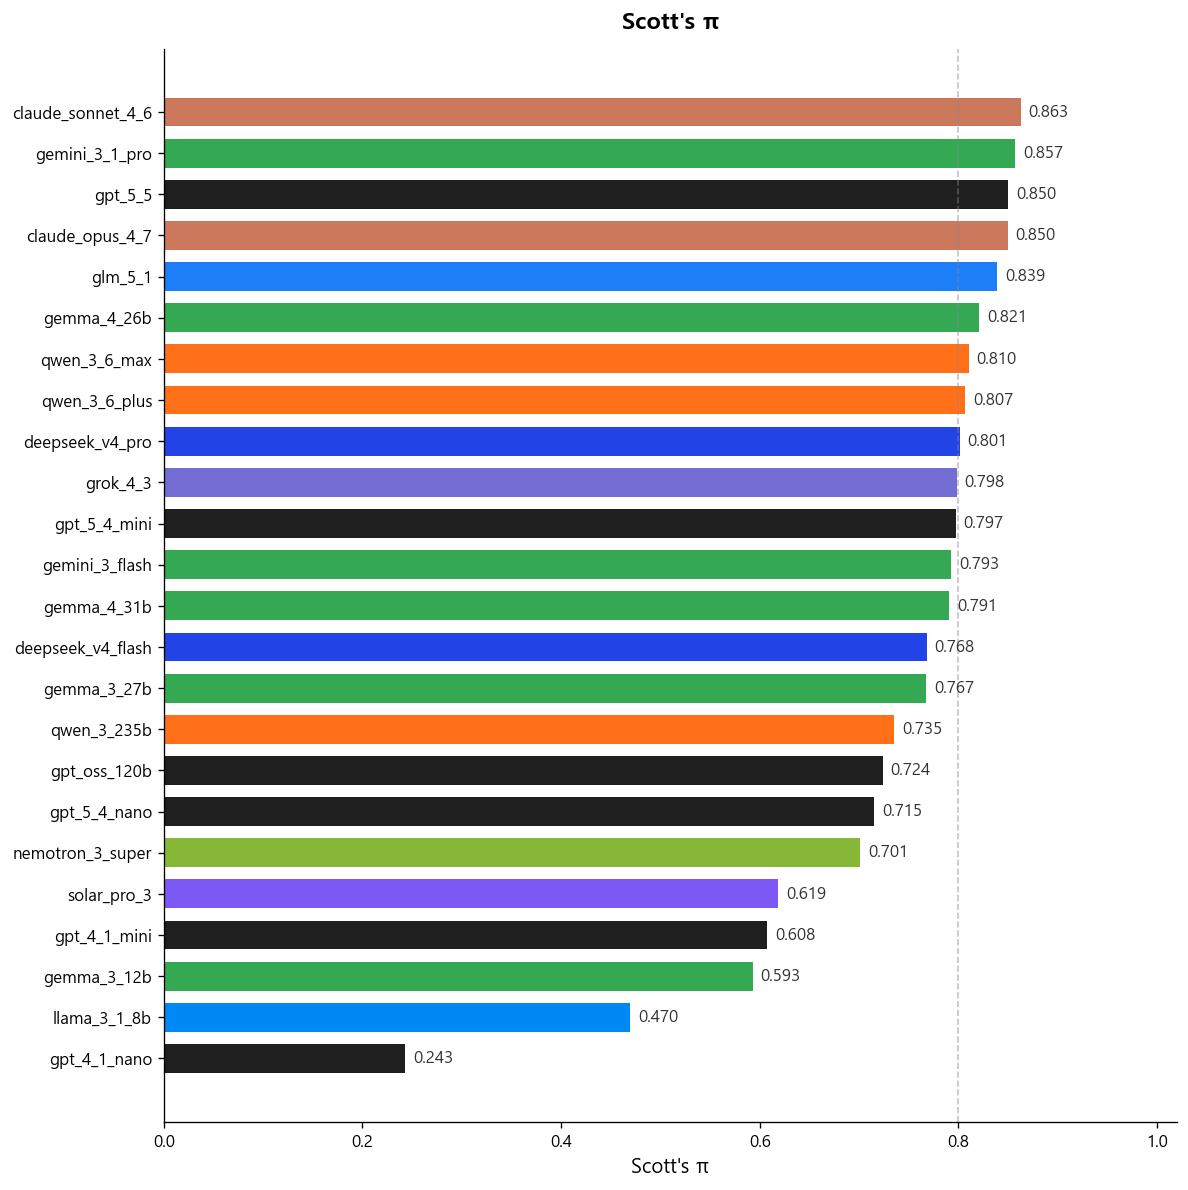
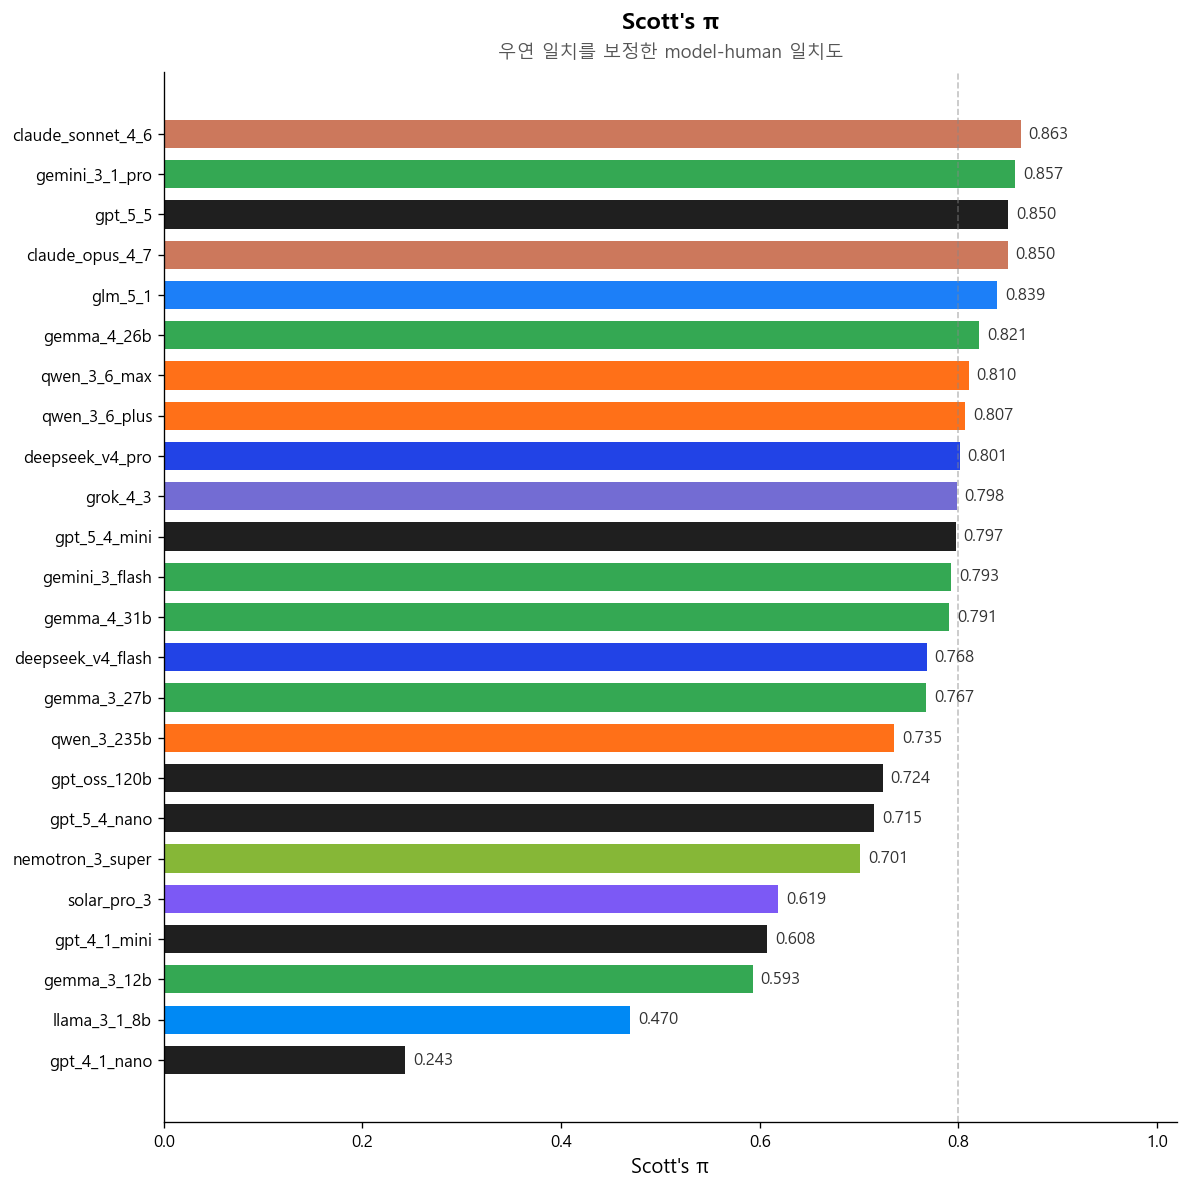
docs: Scott's π 그림 설명 문구 추가
무엇을 바꿨는지: README에 들어가는 Scott's π 그래프에 '우연 일치를 보정한 model-human 일치도' 설명 문구를 추가하고 이미지를 재생성했다.

왜 바꿨는지: 처음 보는 사용자가 Scott's π의 의미를 그림만 보고도 이해할 수 있게 하기 위해서다.

어떻게 검증했는지: uv run python docs/assets/gen_scotts_pi.py로 이미지를 재생성하고 렌더링 결과를 확인했다.

diff --git a/docs/assets/gen_scotts_pi.py b/docs/assets/gen_scotts_pi.py
@@ -7,6 +7,7 @@ sys.path.insert(0, str(Path(__file__).parents[2] / "src"))
 import base64
 import pandas as pd
 import matplotlib.pyplot as plt
+from matplotlib import font_manager
 from judge_eval.reporting import _model_color, _fig_to_base64
 
 DIRS = [
@@ -17,8 +18,22 @@ DIRS = [
 ]
 EXCLUDE = {"kimi_k2_6", "mimo_v2_5_pro", "k_exaone_236b_a23b"}
 OUT = Path(__file__).parent / "scotts_pi.png"
+SUBTITLE = "우연 일치를 보정한 model-human 일치도"
+
+
+def set_korean_font() -> None:
+    for font_path in [
+        Path.home() / ".local/share/fonts/malgun.ttf",
+        Path.home() / ".local/share/fonts/malgunbd.ttf",
+    ]:
+        if font_path.exists():
+            font_manager.fontManager.addfont(str(font_path))
+            plt.rcParams["font.family"] = font_manager.FontProperties(fname=str(font_path)).get_name()
+            return
 
 dfs = []
+set_korean_font()
+
 for d in DIRS:
     p = Path(d) / "metrics_overall.csv"
     if p.exists():
@@ -48,7 +63,17 @@ for bar, val in zip(bars, values):
 ax.axvline(0.8, color="#888", linewidth=1, linestyle="--", alpha=0.5)
 ax.set_xlim(0, 1.02)
 ax.set_xlabel("Scott's π", fontsize=12)
-ax.set_title("Scott's π", fontsize=14, fontweight="bold", pad=12)
+ax.set_title("Scott's π", fontsize=14, fontweight="bold", pad=26)
+ax.text(
+    0.5,
+    1.01,
+    SUBTITLE,
+    transform=ax.transAxes,
+    ha="center",
+    va="bottom",
+    fontsize=11,
+    color="#555555",
+)
 ax.tick_params(axis="y", labelsize=10)
 ax.tick_params(axis="x", labelsize=10)
 ax.spines["top"].set_visible(False)
